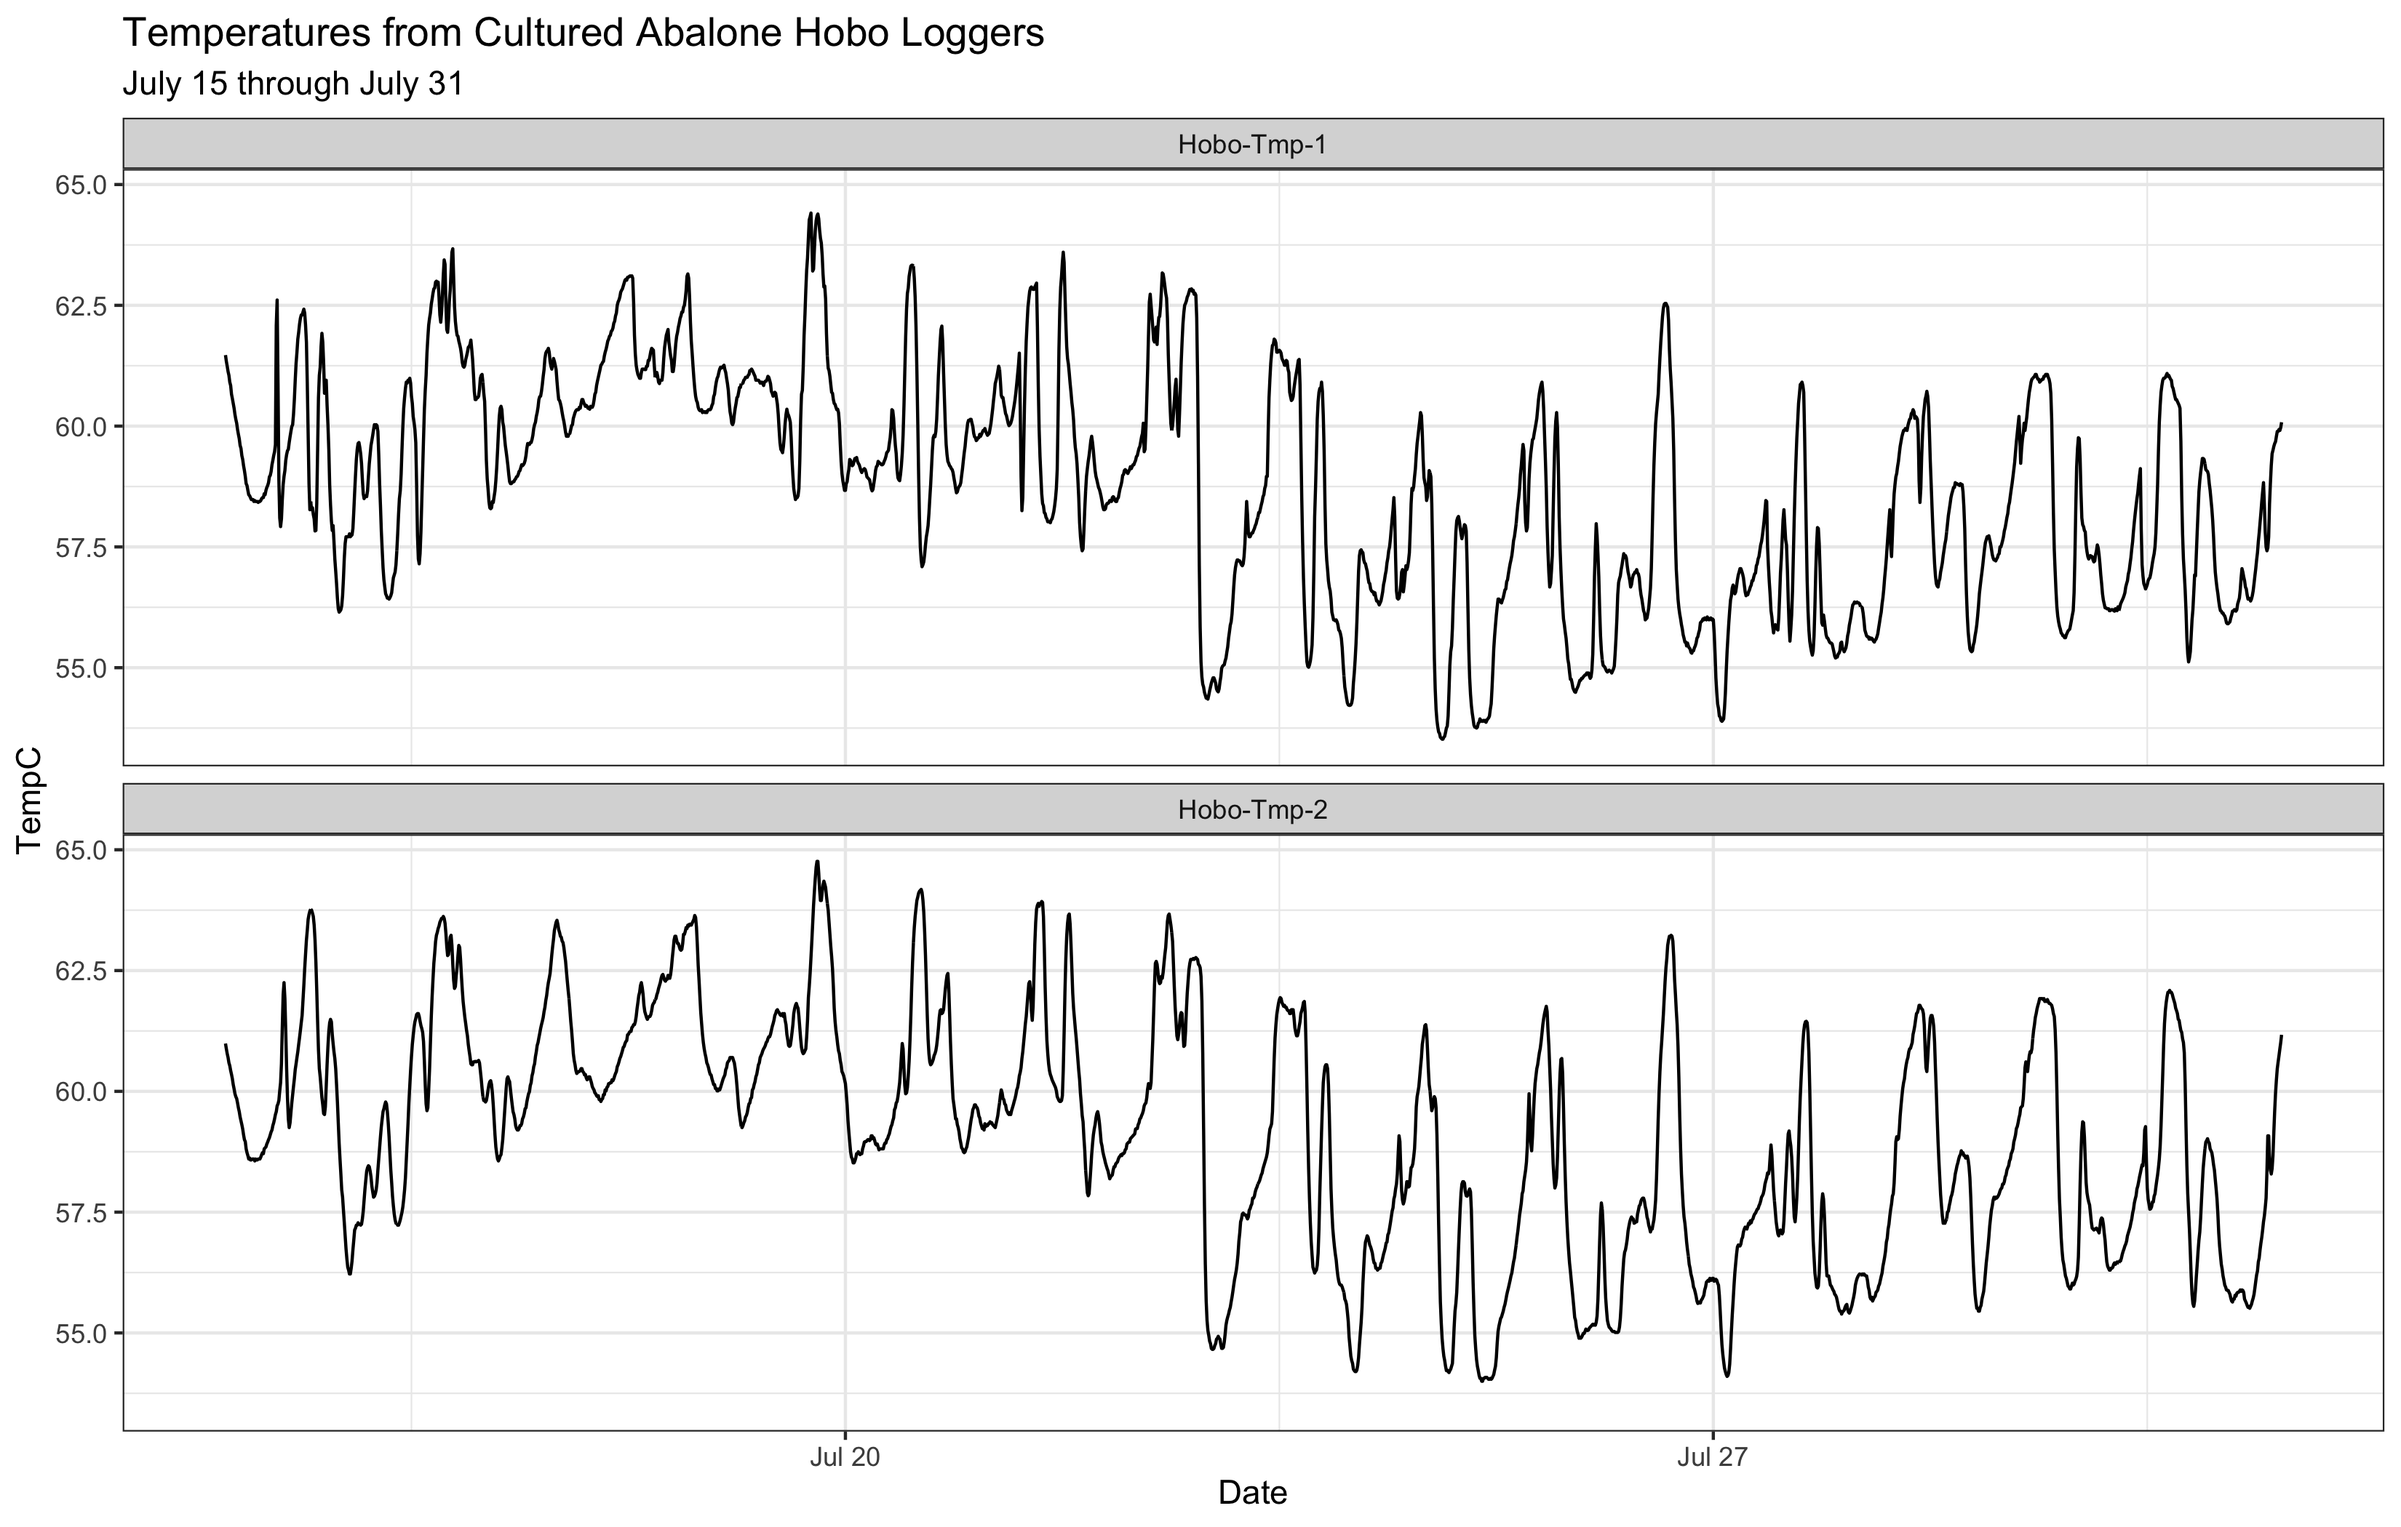
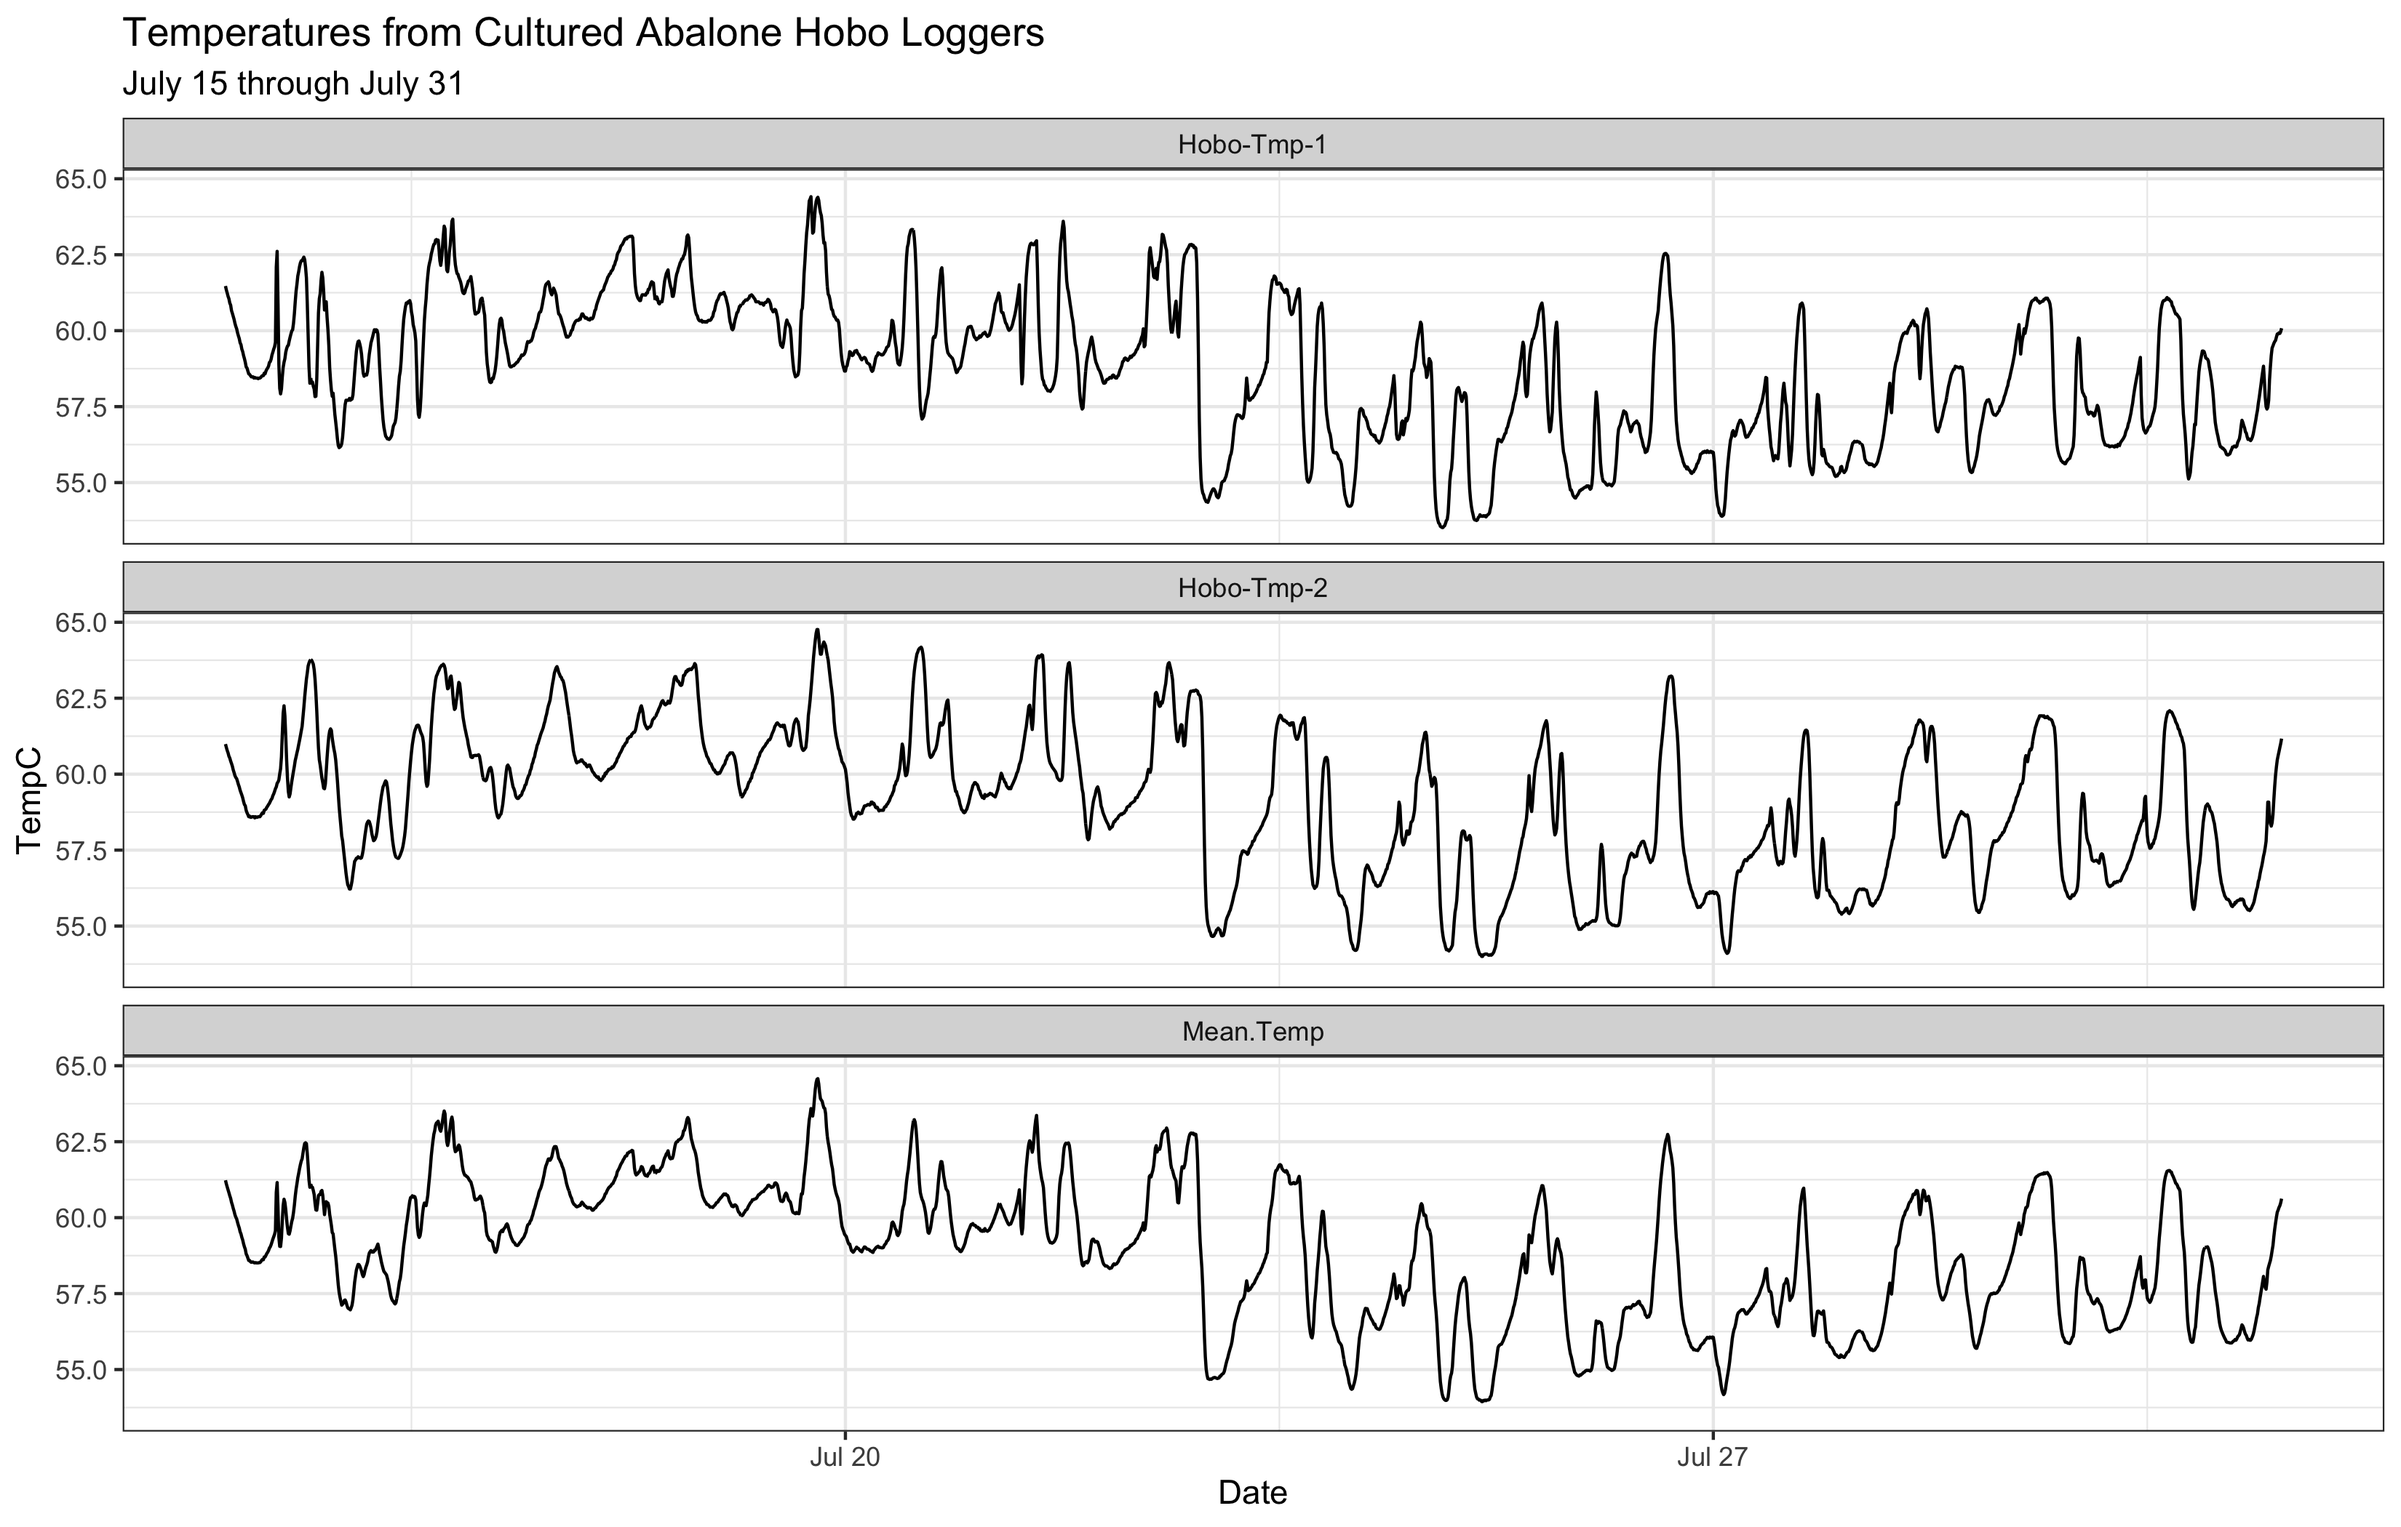
updated Cultured Ab plots

Changed region(s): [[0.0312, 0.0929, 0.9988, 0.9286], [0.0312, 0.8667, 0.0624, 0.8976], [0.0312, 0.2476, 0.0624, 0.2786]]

diff --git a/Output/Cultured_Ab/README.md b/Output/Cultured_Ab/README.md
@@ -14,11 +14,3 @@ July 2020 Temperatures
 July 15-30, 2020 Temperatures
 ![July 15-30, 2020 Temperatures](https://github.com/SilbigerLab/Mesocosm_Environmental_Data/blob/master/Output/Cultured_Ab/CulteredAb_Hobo_2week_plot.png)
 
-July 2020 mean Temperatures
-![July 2020 mean Temperatures](https://github.com/SilbigerLab/Mesocosm_Environmental_Data/blob/master/Output/Cultured_Ab/CulteredAb_Hobo_avgmonth_facet_plot.png)
-
-July 15-30, 2020 mean Temperatures
-![July 15-30, 2020 mean Temperatures](https://github.com/SilbigerLab/Mesocosm_Environmental_Data/blob/master/Output/Cultured_Ab/CulteredAb_Hobo_avg2week_facet_plot.png)
-
-
-
